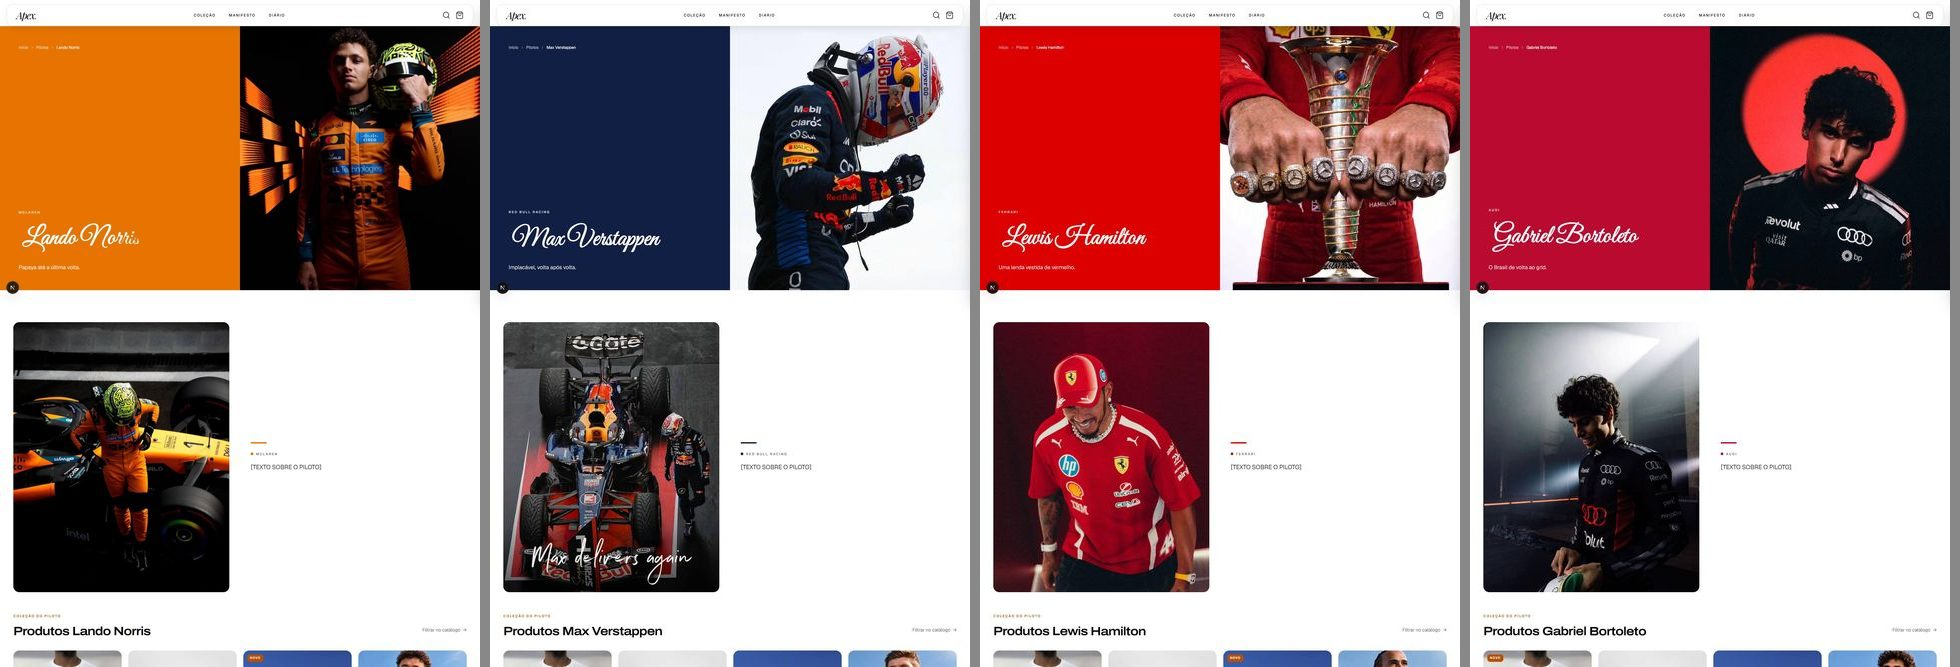
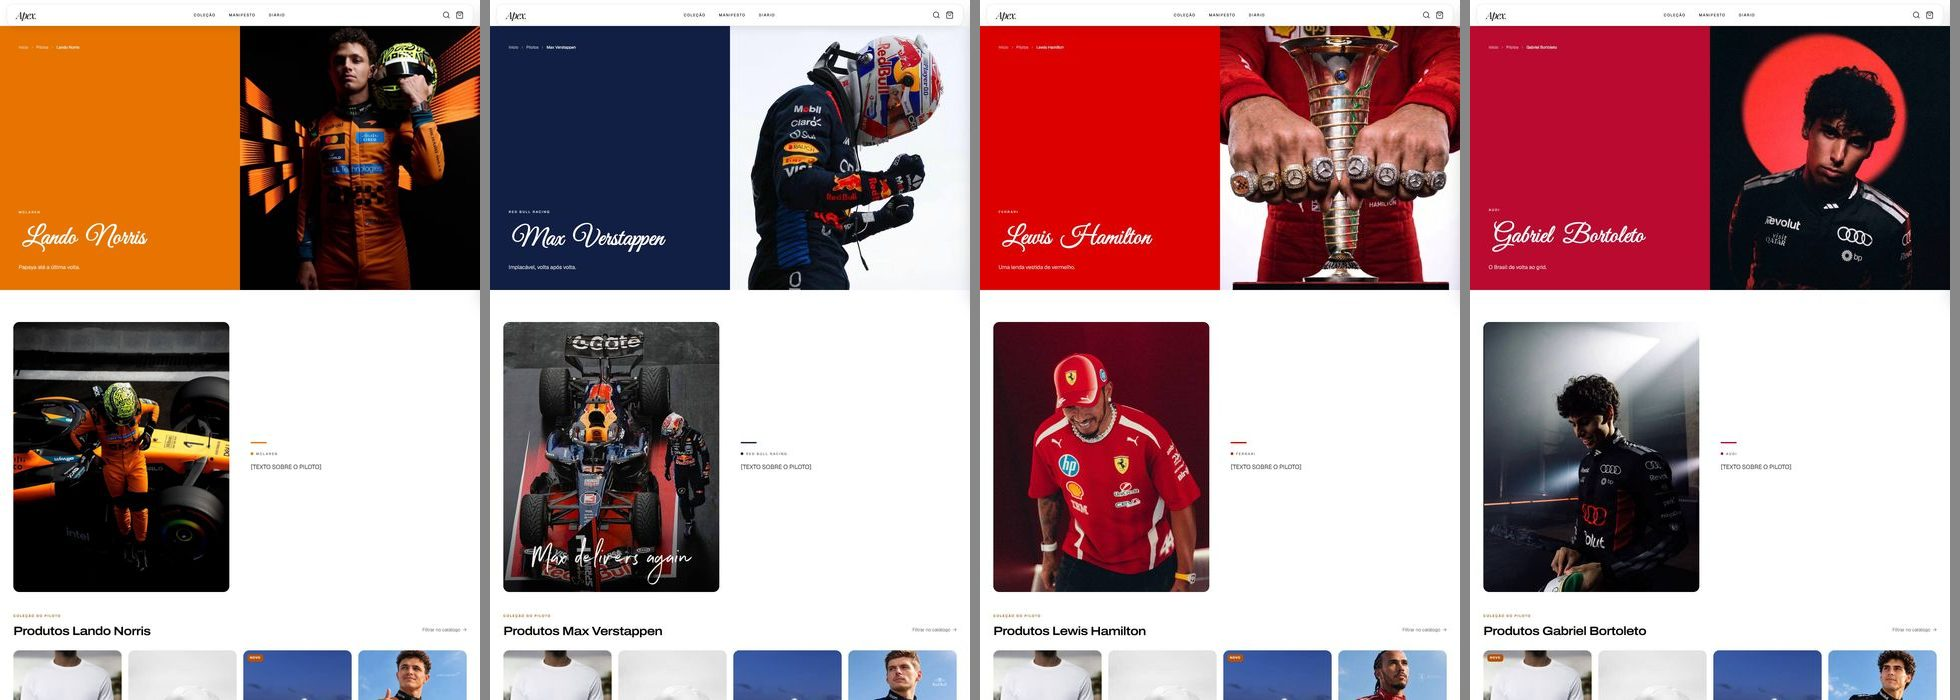
pilotos: QA final (prints das páginas e medição no CLAUDE.md)

Changed region(s): [[0.0, 0.03, 0.9959, 1.0]]

diff --git a/CLAUDE.md b/CLAUDE.md
@@ -503,7 +503,9 @@ Rodada de refinamento (branch `feat/polimento-2`, criada a partir da `feat/polim
   inseridas no `<head>` por script são ignoradas por ele. CLS 0.
   Lighthouse mobile da home, mesmas condições e mesma hora (5 execuções): antes 81/83/84/89/84 (mediana 84, FCP ~1,96 s)
   → depois 86/91/88/85/96 (**mediana 88**, FCP ~1,06 s). **Medição:** desligue o dev server e use um Edge headless recém-
-  aberto; com o dev server recompilando, o mesmo build caiu para ~72 (TBT ~900 ms).
+  aberto; com o dev server recompilando, o mesmo build caiu para ~72 (TBT ~900 ms). Build final da feat/pilotos (com o
+  `<style>` no head e as melhorias do item 4): 85/94/84/85/95, mediana 85; a simulação alterna entre dois modos (LCP
+  ~2,9 s ou ~4,3 s), então séries de 5 variam ±3 pontos. Acessibilidade 100, Boas práticas 96, SEO 100, CLS 0.
 
 ## Roteiro (próximos passos, em ordem)
 
